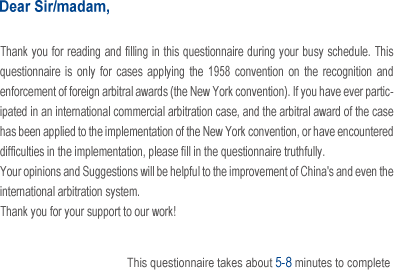
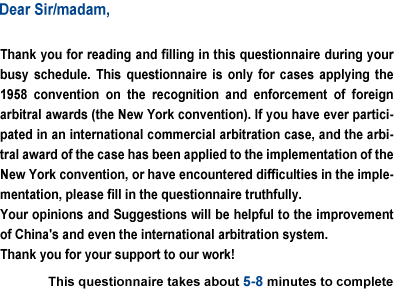
no message

diff --git a/src/style.scss b/src/style.scss
@@ -403,7 +403,7 @@ img {
       flex-direction: row;
       justify-content: center;
       align-items: stretch;
-      height: 276PX;
+      height: 290PX;
       .letter-chn{
         flex-grow: 1;
         width: auto;
@@ -616,6 +616,8 @@ img {
 
 
 .ie9{
+  overflow: hidden;
+  height: 100%;
   .clearFloat{
     clear: both;
   }
@@ -630,8 +632,8 @@ img {
     padding: 21PX 0 0 0;
   }
   #homePage{
-    display: flex;
-    flex-direction: column;
+    overflow: hidden;
+    height: 100%;
     &.hide{
       display: none;
     }
@@ -639,34 +641,22 @@ img {
       position: absolute;
     }
     .pageContainer{
-      display: flex;
-      flex-direction: column;
-      justify-content: center;
-      flex-grow: 1;
-      position: absolute;
-      top: 50%;
       width: 100%;
-      transform: translateY( -50%);
-      background-color: red;
+      padding-top: 100PX;
     }
     .PageTitle{
       width: 64.2%;
       max-width: 642PX;
       margin: 0PX auto 37PX;
-
     }
     .letters{
-      background-color: red;
-      height: 276PX;
       .letter-chn{
         width: 50%;
         float: left;
         box-sizing: border-box;
-        background-color: blue;
         height: 100%;
       }
       .letter-en{
-        background-color: green;
         width: 50%;
         float: right;
         box-sizing: border-box;
